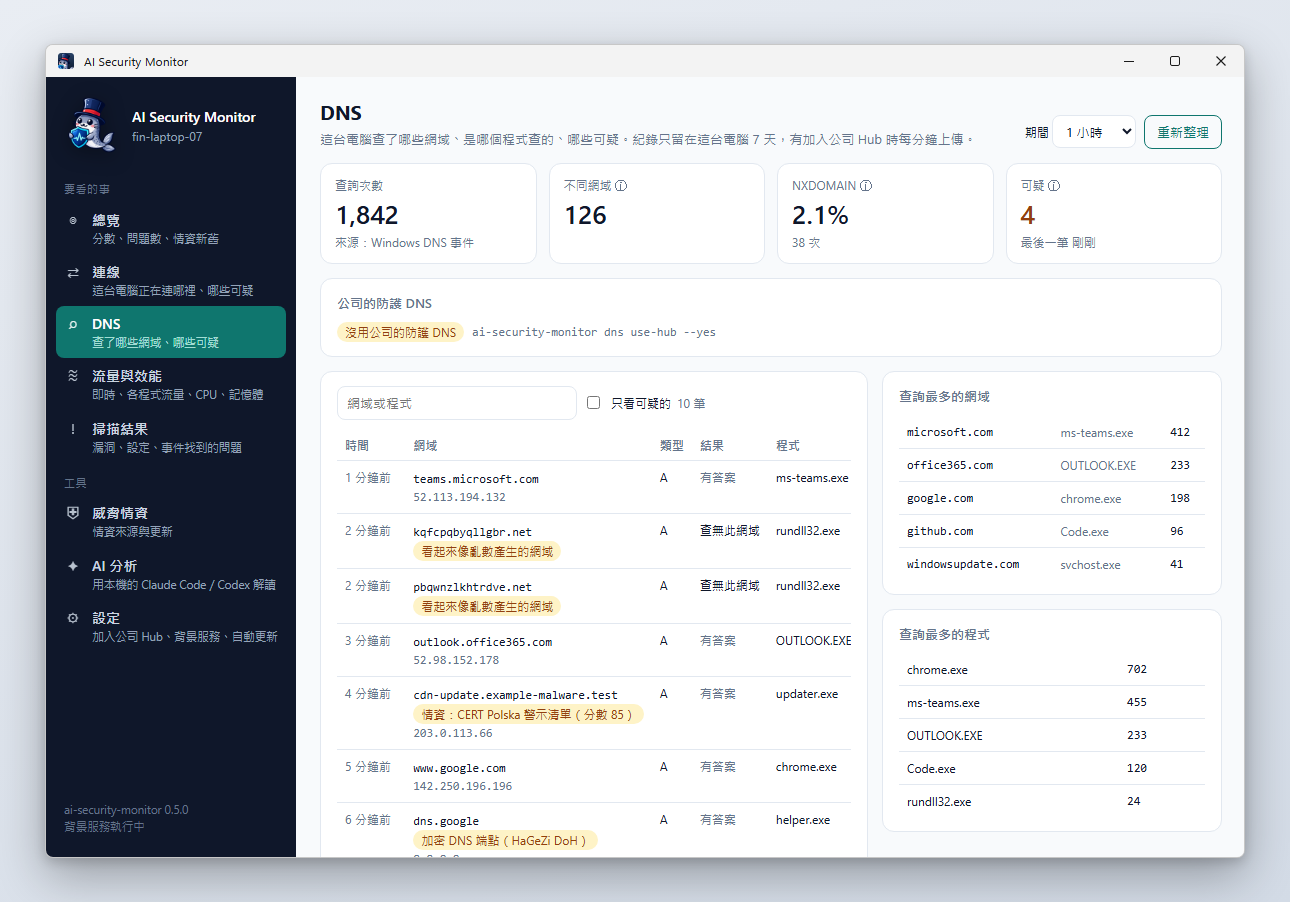
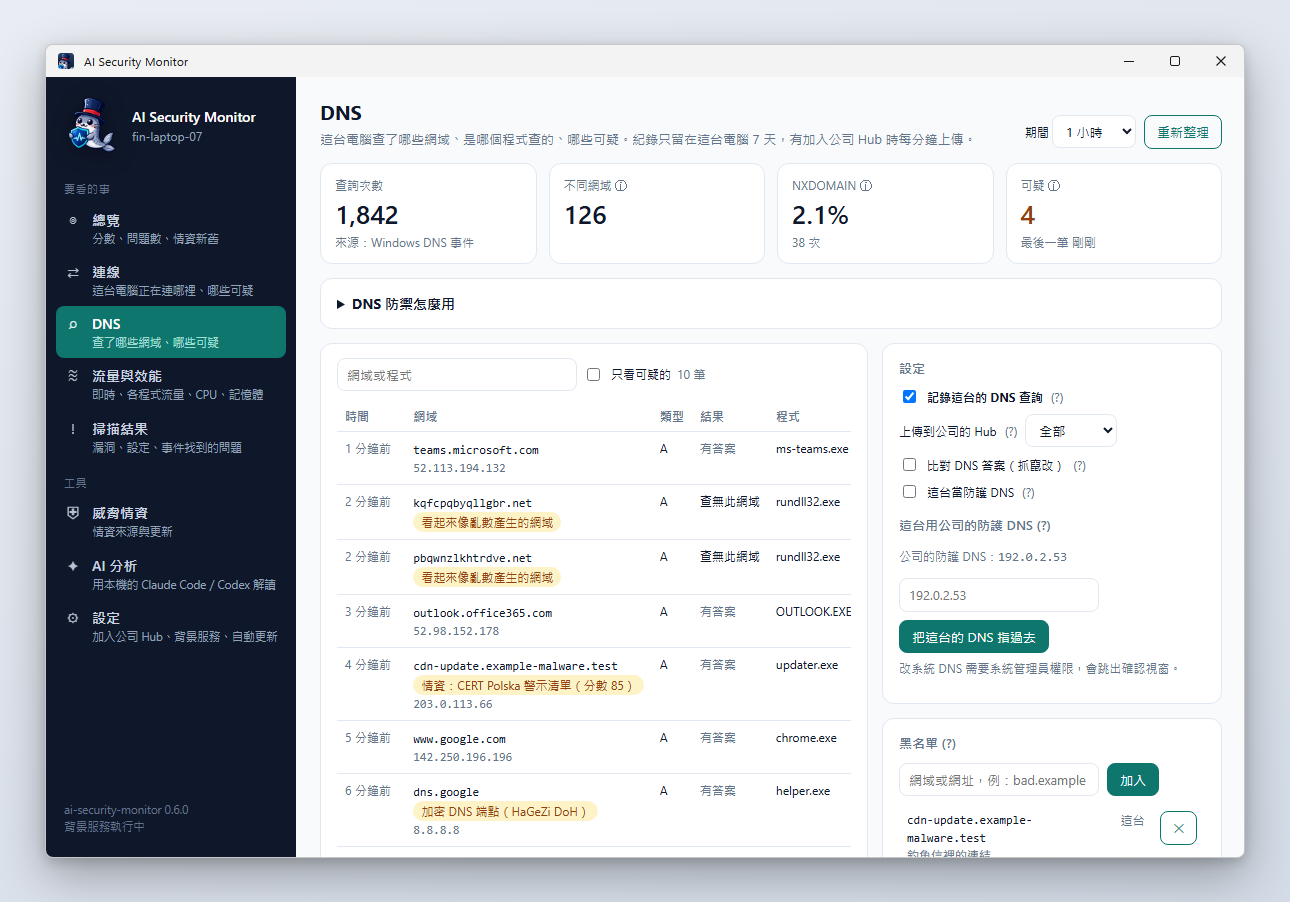
feat(desktop): DNS settings, blocklist and how-to on the DNS page
- Settings card: DNS monitoring on/off, upload level, answer
  verification, run the protective DNS on this computer (+ listen
  address), point this computer at the company protective DNS / restore
  (elevated `dns use-hub` / `dns restore`), plain-language hints
- Blocklist card: add domains or URLs, remove local entries, read-only
  Hub entries; "Block" on every lookup row; blocklist hits as reasons
- "How to use DNS defense" steps; screenshot mock updated

diff --git a/desktop/ui/app.js b/desktop/ui/app.js
@@ -609,9 +609,66 @@ const DNS_SOURCE = {
 const DNS_HINT = {
   nx: 'NXDOMAIN＝查無此網域。偶爾出現很正常；同一個程式短時間大量出現，常是用亂數網域找控制伺服器的惡意程式。',
   domains: '依「可註冊網域」計算：a.b.example.co.uk 算成 example.co.uk，同一家的子網域合成一個。',
-  suspicious: '威脅情資列名的網域、像亂數產生的網域、少見的頂級網域，或加密 DNS 端點（程式自己走加密 DNS 會繞過公司的 DNS）。',
-  protect: '公司的防護 DNS 會擋掉威脅情資列名的網域；用 ai-security-monitor dns use-hub 把這台的 DNS 指過去（防護 DNS 連不上時會自動改回）。',
+  suspicious: '威脅情資列名的網域、黑名單上的網域、像亂數產生的網域、少見的頂級網域，或加密 DNS 端點（程式自己走加密 DNS 會繞過公司的 DNS）。',
+  protect: '公司的防護 DNS 會擋掉威脅情資列名的網域；把這台的 DNS 指過去後，防護 DNS 連續 3 分鐘查不到時背景服務會自動改回原本的 DNS。',
+  enabled: '即時記錄這台查了哪些網域、是哪個程式查的，可疑的會變成掃描結果。關掉就不記錄、也不做 DNS 告警。',
+  upload: 'DNS 紀錄等於上網紀錄。「全部」＝每分鐘把紀錄送到公司的 Hub；「只傳告警」＝只送可疑的；「不傳」＝只留在這台。',
+  verify: '拿 3 個常見網域的答案跟 Cloudflare 的加密 DNS 比對，抓 DNS 被竄改。開了會把這 3 個網域送給 Cloudflare。',
+  server: '讓這台電腦當整個區網的防護 DNS（擋威脅情資列名的網域、上游走加密 DNS）。要背景服務在跑；其他裝置的 DNS 指到這台的區網 IP 才會用到。',
+  blocklist: '黑名單上的網域（含子網域）：這台查到就告警，用防護 DNS 的電腦會直接被擋。Hub 的黑名單是公司統一管理的，在 Hub「設定與金鑰 → 防護 DNS」修改。',
 };
+
+async function dnsDo(fn, okText) {
+  try {
+    const r = await fn();
+    if (okText) toast(okText);
+    return r;
+  } catch (e) {
+    toast(String(e), 6000);
+    return null;
+  }
+}
+
+function dnsSettingsCard(d) {
+  const sel = (v) => (d.upload === v ? 'selected' : '');
+  const usedHub = d.use_hub
+    ? `<p class="small">目前用的是公司的防護 DNS（<span class="mono">${esc(d.use_hub.servers.join('、'))}</span>，從 ${ago(d.use_hub.applied_at)} 起）。</p><button class="btn" id="dns-restore">改回原本的 DNS</button>`
+    : `<p class="small muted">${d.hub_protect?.resolver_ips?.length ? `公司的防護 DNS：<span class="mono">${esc(d.hub_protect.resolver_ips.join('、'))}</span>` : '還沒有公司的防護 DNS 位址（Hub「設定與金鑰 → 防護 DNS」的「裝置要用的 DNS 位址」），也可以自己填。'}</p>
+       <div class="row"><input type="text" id="dns-hub-ip" placeholder="${esc(d.hub_protect?.resolver_ips?.join(',') || '例：192.168.1.5')}" style="width:200px"/><button class="btn primary" id="dns-use-hub">把這台的 DNS 指過去</button></div>`;
+  return `<div class="card">
+    <h2>設定</h2>
+    <label class="row small" title="${esc(DNS_HINT.enabled)}"><input type="checkbox" id="dns-set-enabled" ${d.enabled ? 'checked' : ''}/> <b>記錄這台的 DNS 查詢</b> <span class="muted">(?)</span></label>
+    <label class="small row" style="margin-top:8px" title="${esc(DNS_HINT.upload)}">上傳到公司的 Hub <span class="muted">(?)</span>
+      <select id="dns-set-upload"><option value="all" ${sel('all')}>全部</option><option value="alerts" ${sel('alerts')}>只傳告警</option><option value="off" ${sel('off')}>不傳</option></select></label>
+    <label class="row small" style="margin-top:8px" title="${esc(DNS_HINT.verify)}"><input type="checkbox" id="dns-set-verify" ${d.verify_answers ? 'checked' : ''}/> 比對 DNS 答案（抓竄改） <span class="muted">(?)</span></label>
+    <label class="row small" style="margin-top:8px" title="${esc(DNS_HINT.server)}"><input type="checkbox" id="dns-set-server" ${d.dns_server ? 'checked' : ''}/> 這台當防護 DNS <span class="muted">(?)</span></label>
+    <div class="row small" style="margin-top:4px;${d.dns_server ? '' : 'display:none'}" id="dns-listen-row">監聽位址 <input type="text" id="dns-set-listen" value="${esc(d.dns_server_listen)}" placeholder="空白＝全部網卡的 53 port" style="width:200px"/><button class="btn" id="dns-save-listen">儲存</button></div>
+    <h2 style="margin-top:14px" title="${esc(DNS_HINT.protect)}">這台用公司的防護 DNS <span class="muted">(?)</span></h2>
+    ${usedHub}
+    <p class="small muted" style="margin-top:6px">改系統 DNS 需要系統管理員權限，會跳出確認視窗。</p>
+  </div>`;
+}
+
+function dnsBlocklistCard(d) {
+  const local = d.blocklist?.local ?? [];
+  const hub = d.blocklist?.hub ?? [];
+  return `<div class="card">
+    <h2 title="${esc(DNS_HINT.blocklist)}">黑名單 <span class="muted">(?)</span></h2>
+    <div class="row"><input type="text" id="dns-bl-add" placeholder="網域或網址，例：bad.example" style="width:200px"/><button class="btn primary" id="dns-bl-btn">加入</button></div>
+    ${local.length || hub.length ? `<table style="margin-top:8px"><tbody>
+      ${local.map((e) => `<tr><td class="mono small">${esc(e.domain)}${e.note ? `<div class="small muted">${esc(e.note)}</div>` : ''}</td><td class="small muted nw">這台</td><td class="nw"><button class="btn" data-unblock="${esc(e.domain)}" title="從這台的黑名單移除">✕</button></td></tr>`).join('')}
+      ${hub.map((x) => `<tr><td class="mono small">${esc(x)}</td><td class="small muted nw" title="公司統一管理，在 Hub 修改">Hub</td><td></td></tr>`).join('')}
+    </tbody></table>` : '<p class="small muted" style="margin-top:6px">還沒有。也可以在下面的查詢紀錄按「封鎖」。</p>'}
+  </div>`;
+}
+
+const DNS_HOWTO = `<details class="card"><summary><b>DNS 防禦怎麼用</b></summary>
+  <ol class="small" style="line-height:1.8;margin:8px 0 0 18px;padding:0">
+    <li><b>看紀錄</b>：背景服務在跑時，這頁會列出這台查了哪些網域、哪個程式查的；可疑的會標出理由，也會出現在「掃描結果」。</li>
+    <li><b>加黑名單</b>：在右邊「黑名單」貼上網域，或在查詢紀錄按「封鎖」。這台查到就告警；用防護 DNS 的電腦會直接被擋。全公司一起擋請在 Hub「設定與金鑰 → 防護 DNS」加。</li>
+    <li><b>真的擋下來</b>：公司有防護 DNS 時，在「設定」按「把這台的 DNS 指過去」；防護 DNS 連不上會自動改回。想讓這台當防護 DNS，勾「這台當防護 DNS」。</li>
+    <li><b>隱私</b>：DNS 紀錄等於上網紀錄，「上傳到公司的 Hub」可以改成只傳告警或不傳。</li>
+  </ol></details>`;
 
 async function pageDns() {
   $main.innerHTML = `<h1>DNS</h1><p class="sub">載入中…</p>`;
@@ -625,11 +682,6 @@ async function pageDns() {
   const st = d.status;
   const src = st ? DNS_SOURCE[st.source] : null;
   const nxPct = d.total ? Math.round((d.nxdomain / d.total) * 1000) / 10 : 0;
-  const protect = d.use_hub
-    ? `<span class="chip ok" title="${esc(DNS_HINT.protect)}">已用公司的防護 DNS（${esc(d.use_hub.servers.join('、'))}）</span>`
-    : d.hub_protect?.enabled && d.hub_protect.resolver_ips?.length
-      ? `<span class="chip medium" title="${esc(DNS_HINT.protect)}">沒用公司的防護 DNS</span> <span class="small muted mono">ai-security-monitor dns use-hub --yes</span>`
-      : '';
   $main.innerHTML = `
     <div class="head">
       <div><h1>DNS</h1><p class="sub">這台電腦查了哪些網域、是哪個程式查的、哪些可疑。紀錄只留在這台電腦 7 天${d.upload === 'all' ? '，有加入公司 Hub 時每分鐘上傳' : ''}。</p></div>
@@ -638,7 +690,7 @@ async function pageDns() {
         <button class="btn" id="dns-refresh">重新整理</button>
       </div>
     </div>
-    ${d.enabled ? '' : `<div class="card"><p class="small">DNS 監看已關閉。開啟：<span class="mono">ai-security-monitor config set dns.enabled true</span></p></div>`}
+    ${d.enabled ? '' : `<div class="card"><p class="small">DNS 監看已關閉，在右邊「設定」勾「記錄這台的 DNS 查詢」就會開始記錄。</p></div>`}
     ${d.unreadable ? `<div class="card"><p class="small">背景服務的 DNS 紀錄要以系統管理員身分執行才讀得到。</p></div>` : ''}
     <div class="grid">
       <div class="stat"><div class="label">查詢次數</div><div class="value">${Number(d.total).toLocaleString()}</div><div class="hint">${src ? `<span title="${esc(src[1])}">來源：${esc(src[0])}</span>` : '背景服務還沒有紀錄'}</div></div>
@@ -646,7 +698,7 @@ async function pageDns() {
       <div class="stat"><div class="label" title="${esc(DNS_HINT.nx)}">NXDOMAIN ⓘ</div><div class="value">${nxPct}%</div><div class="hint">${Number(d.nxdomain).toLocaleString()} 次</div></div>
       <div class="stat"><div class="label" title="${esc(DNS_HINT.suspicious)}">可疑 ⓘ</div><div class="value" style="${d.suspicious ? 'color:var(--warn)' : ''}">${d.suspicious}</div><div class="hint">${st?.last_event_at ? `最後一筆 ${ago(st.last_event_at)}` : ''}</div></div>
     </div>
-    ${protect ? `<div class="card"><h2>公司的防護 DNS</h2><div class="row">${protect}</div></div>` : ''}
+    ${DNS_HOWTO}
     <div class="split">
       <div>
         <div class="card">
@@ -655,7 +707,7 @@ async function pageDns() {
             <label class="small row" title="${esc(DNS_HINT.suspicious)}"><input type="checkbox" id="dns-bad" ${dnsState.suspicious ? 'checked' : ''}/> 只看可疑的</label>
             <span class="muted small">${d.records.length >= 500 ? '只顯示最近 500 筆' : `${d.records.length} 筆`}</span>
           </div>
-          ${d.records.length ? `<div style="overflow-x:auto"><table><thead><tr><th class="nw">時間</th><th>網域</th><th class="nw">類型</th><th class="nw">結果</th><th>程式</th><th class="nw">次數</th></tr></thead><tbody>${d.records
+          ${d.records.length ? `<div style="overflow-x:auto"><table><thead><tr><th class="nw">時間</th><th>網域</th><th class="nw">類型</th><th class="nw">結果</th><th>程式</th><th class="nw">次數</th><th></th></tr></thead><tbody>${d.records
             .map((r) => `<tr>
               <td class="small muted nw">${ago(r.ts)}</td>
               <td><span class="mono small">${esc(r.name)}</span>${r.reasons.map((x) => ` <span class="chip medium">${esc(x)}</span>`).join('')}${r.answers?.length ? `<div class="small muted mono">${esc(r.answers.slice(0, 3).join(', '))}${r.answers.length > 3 ? '…' : ''}</div>` : ''}</td>
@@ -663,23 +715,68 @@ async function pageDns() {
               <td class="small nw">${r.rcode === 'NOERROR' ? '<span class="muted">有答案</span>' : r.rcode === 'NXDOMAIN' ? `<span title="${esc(DNS_HINT.nx)}">查無此網域</span>` : esc(r.rcode)}</td>
               <td class="small">${esc(r.process ?? '—')}</td>
               <td class="small mono nw">${r.count}</td>
+              <td class="nw"><button class="btn" data-block="${esc(r.name)}" title="把這個網域（含子網域）加進這台的黑名單">封鎖</button></td>
             </tr>`).join('')}</tbody></table></div>` : `<p class="muted small">這段期間沒有紀錄${d.enabled ? '（背景服務要在跑才會記錄；Windows 以系統管理員執行才看得到程式）' : ''}。</p>`}
         </div>
       </div>
       <div>
+        ${dnsSettingsCard(d)}
+        ${dnsBlocklistCard(d)}
         <div class="card"><h2>查詢最多的網域</h2>${d.top_domains.length ? `<table><tbody>${d.top_domains.map((t) => `<tr><td class="mono small">${esc(t.domain)}</td><td class="small muted">${esc(t.process || '')}</td><td class="small mono">${Number(t.count).toLocaleString()}</td></tr>`).join('')}</tbody></table>` : '<p class="muted small">沒有</p>'}</div>
         <div class="card"><h2>查詢最多的程式</h2>${d.top_processes.length ? `<table><tbody>${d.top_processes.map((t) => `<tr><td class="small">${esc(t.process)}</td><td class="small mono">${Number(t.count).toLocaleString()}</td></tr>`).join('')}</tbody></table>` : '<p class="muted small">看不到程式（Windows 以系統管理員執行背景服務才看得到）</p>'}</div>
       </div>
     </div>`;
-  document.getElementById('dns-refresh').onclick = () => pageDns();
-  document.getElementById('dns-min').onchange = (e) => { dnsState.minutes = Number(e.target.value); pageDns(); };
-  document.getElementById('dns-bad').onchange = (e) => { dnsState.suspicious = e.target.checked; pageDns(); };
+  const $ = (id) => document.getElementById(id);
+  $('dns-refresh').onclick = () => pageDns();
+  $('dns-min').onchange = (e) => { dnsState.minutes = Number(e.target.value); pageDns(); };
+  $('dns-bad').onchange = (e) => { dnsState.suspicious = e.target.checked; pageDns(); };
   let t = null;
-  document.getElementById('dns-q').oninput = (e) => {
+  $('dns-q').oninput = (e) => {
     dnsState.q = e.target.value;
     clearTimeout(t);
-    t = setTimeout(() => pageDns().then(() => { const el = document.getElementById('dns-q'); el.focus(); el.setSelectionRange(el.value.length, el.value.length); }), 400);
+    t = setTimeout(() => pageDns().then(() => { const el = $('dns-q'); el.focus(); el.setSelectionRange(el.value.length, el.value.length); }), 400);
   };
+  // 設定
+  const set = (key, value, ok) => dnsDo(() => invoke('dns_set', { key, value: String(value) }), ok);
+  $('dns-set-enabled').onchange = (e) => set('dns.enabled', e.target.checked, e.target.checked ? '已開始記錄 DNS 查詢（背景服務下一輪生效）' : '已停止記錄 DNS 查詢');
+  $('dns-set-upload').onchange = (e) => set('dns.upload', e.target.value, '已儲存');
+  $('dns-set-verify').onchange = (e) => set('dns.verify_answers', e.target.checked, '已儲存');
+  $('dns-set-server').onchange = async (e) => {
+    await set('dns.server.enabled', e.target.checked, e.target.checked ? '背景服務 1 分鐘內會帶起防護 DNS' : '背景服務 1 分鐘內會停掉防護 DNS');
+    $('dns-listen-row').style.display = e.target.checked ? '' : 'none';
+  };
+  $('dns-save-listen').onclick = () => set('dns.server.listen', $('dns-set-listen').value, '已儲存監聽位址');
+  if ($('dns-use-hub')) {
+    $('dns-use-hub').onclick = async () => {
+      const ip = $('dns-hub-ip').value.trim();
+      if (!window.confirm(`把這台的系統 DNS 改成${ip ? ` ${ip}` : '公司的防護 DNS'}？\n\n原本的設定會存起來，可以按「改回原本的 DNS」；防護 DNS 連不上時背景服務也會自動改回。`)) return;
+      const r = await dnsDo(() => invoke('dns_use_hub', { server: ip || null }));
+      if (r) { toast((r.lines || []).join('\n') || '已改好', 6000); pageDns(); }
+    };
+  }
+  if ($('dns-restore')) {
+    $('dns-restore').onclick = async () => {
+      if (!window.confirm('把這台的 DNS 改回原本的設定？')) return;
+      const r = await dnsDo(() => invoke('dns_restore'));
+      if (r) { toast('已改回原本的 DNS'); pageDns(); }
+    };
+  }
+  // 黑名單
+  const block = async (domains) => {
+    const r = await dnsDo(() => invoke('dns_block', { domains, note: null }));
+    if (!r) return;
+    if (r.added.length) toast(`已加入黑名單：${r.added.join('、')}（含子網域）`);
+    else if (r.invalid.length) toast(`不是合法的網域：${r.invalid.join('、')}`, 5000);
+    else toast('已經在黑名單上了');
+    pageDns();
+  };
+  $('dns-bl-btn').onclick = () => { const v = $('dns-bl-add').value.trim(); if (v) block(v.split(/[\s,]+/).filter(Boolean)); };
+  $('dns-bl-add').onkeydown = (e) => { if (e.key === 'Enter') $('dns-bl-btn').click(); };
+  $main.querySelectorAll('[data-block]').forEach((b) => (b.onclick = () => block([b.dataset.block])));
+  $main.querySelectorAll('[data-unblock]').forEach((b) => (b.onclick = async () => {
+    const r = await dnsDo(() => invoke('dns_unblock', { domains: [b.dataset.unblock] }));
+    if (r) { toast(`已移除：${b.dataset.unblock}`); pageDns(); }
+  }));
 }
 
 // ---------------- AI 分析 ----------------

diff --git a/desktop/src-tauri/src/dns.rs b/desktop/src-tauri/src/dns.rs
@@ -3,7 +3,7 @@
 
 use std::collections::HashMap;
 
-use asa_lib::dns::{heuristics, store, usehub};
+use asa_lib::dns::{blocklist, heuristics, store, usehub};
 use chrono::Utc;
 use serde_json::{json, Value};
 use tauri::State;
@@ -11,8 +11,11 @@ use tauri::State;
 use crate::{AppState, CmdResult};
 
 /// 一筆紀錄的可疑理由（情資分數 ≥ 60、像亂數產生、少見頂級網域）。
-fn reasons(db: Option<&asa_lib::intel::IntelDb>, name: &str) -> Vec<String> {
+fn reasons(db: Option<&asa_lib::intel::IntelDb>, bl: &blocklist::Matcher, name: &str) -> Vec<String> {
     let mut out = Vec::new();
+    if let Some((entry, src)) = bl.find(name) {
+        out.push(format!("黑名單：{entry}（{}）", src.label()));
+    }
     if let Some(db) = db {
         let hits = db.match_domain(name);
         let score = asa_lib::intel::domain_score(&hits, heuristics::is_popular(name));
@@ -48,6 +51,7 @@ pub async fn dns_recent(
     let intel = state.intel().await;
     let needle = q.unwrap_or_default().trim().to_ascii_lowercase();
     let only_bad = suspicious.unwrap_or(false);
+    let bl = blocklist::Matcher::load(&dir);
 
     let mut total = 0u64;
     let mut nx = 0u64;
@@ -70,7 +74,7 @@ pub async fn dns_recent(
         if let Some(p) = &r.process {
             *procs.entry(p.clone()).or_default() += n;
         }
-        let why = reasons(intel.as_deref(), &r.name);
+        let why = reasons(intel.as_deref(), &bl, &r.name);
         if !why.is_empty() {
             bad += 1;
         }
@@ -121,5 +125,98 @@ pub async fn dns_recent(
         "use_hub": usehub::UseHubState::load(&dir),
         "hub_protect": usehub::HubProtect::load(&dir),
         "dns_server": cfg.as_ref().map(|c| c.dns.server.enabled).unwrap_or(false),
+        "dns_server_listen": cfg.as_ref().map(|c| c.dns.server.listen.join(", ")).unwrap_or_default(),
+        "verify_answers": cfg.as_ref().map(|c| c.dns.verify_answers).unwrap_or(false),
+        "blocklist": {
+            "local": blocklist::Blocklist::load(&dir).entries,
+            "hub": usehub::HubProtect::load(&dir).map(|h| h.block).unwrap_or_default(),
+        },
     }))
+}
+
+/// DNS 設定頁可以改的鍵（其他鍵不收）。
+const SETTABLE: [&str; 5] = [
+    "dns.enabled",
+    "dns.upload",
+    "dns.verify_answers",
+    "dns.server.enabled",
+    "dns.server.listen",
+];
+
+#[tauri::command]
+pub async fn dns_set(state: State<'_, AppState>, key: String, value: String) -> CmdResult<Value> {
+    if !SETTABLE.contains(&key.as_str()) {
+        return Err(format!("不能從這裡改：{key}"));
+    }
+    let dir = &state.config_dir;
+    let mut cfg = asa_lib::config::load_or_init(dir).map_err(crate::err)?;
+    asa_lib::config::set_value(&mut cfg, &key, &value).map_err(crate::err)?;
+    asa_lib::config::save(dir, &cfg).map_err(crate::err)?;
+    Ok(json!({ "ok": true }))
+}
+
+#[tauri::command]
+pub async fn dns_block(state: State<'_, AppState>, domains: Vec<String>, note: Option<String>) -> CmdResult<Value> {
+    let dir = &state.config_dir;
+    let mut b = blocklist::Blocklist::load(dir);
+    let (added, invalid) = b.add(&domains, note.as_deref().unwrap_or(""));
+    if !added.is_empty() {
+        b.save(dir).map_err(crate::err)?;
+    }
+    Ok(json!({ "added": added, "invalid": invalid }))
+}
+
+#[tauri::command]
+pub async fn dns_unblock(state: State<'_, AppState>, domains: Vec<String>) -> CmdResult<Value> {
+    let dir = &state.config_dir;
+    let mut b = blocklist::Blocklist::load(dir);
+    let removed = b.remove(&domains);
+    if !removed.is_empty() {
+        b.save(dir).map_err(crate::err)?;
+    }
+    Ok(json!({ "removed": removed }))
+}
+
+/// 以系統管理員執行命令列版的 `dns use-hub`／`dns restore`（會跳出 UAC／密碼視窗）。
+async fn run_dns_elevated(dir: &std::path::Path, args: &[&str]) -> CmdResult<Value> {
+    let st = asa_lib::cli::service_cmd::user_service_status(dir)
+        .await
+        .map_err(crate::err)?;
+    let exe = st["exe"].as_str().map(std::path::PathBuf::from).ok_or_else(|| {
+        "找不到命令列版 ai-security-monitor（請先在「設定」開啟背景自動回報，或安裝命令列版）".to_string()
+    })?;
+    let mut argv: Vec<String> = vec![
+        exe.display().to_string(),
+        "--config-dir".into(),
+        dir.display().to_string(),
+    ];
+    argv.extend(args.iter().map(|s| s.to_string()));
+    let r = asa_lib::elevate::run_elevated(&exe, &argv, dir)
+        .await
+        .map_err(crate::err)?;
+    if !r.ok {
+        let msg = r
+            .error
+            .as_ref()
+            .and_then(|e| e["message"].as_str().map(|s| s.to_string()))
+            .unwrap_or_else(|| r.lines.join("\n"));
+        return Err(msg);
+    }
+    Ok(json!({ "lines": r.lines }))
+}
+
+#[tauri::command]
+pub async fn dns_use_hub(state: State<'_, AppState>, server: Option<String>) -> CmdResult<Value> {
+    let server = server.map(|s| s.trim().to_string()).filter(|s| !s.is_empty());
+    let mut args = vec!["dns", "use-hub", "--yes"];
+    if let Some(s) = &server {
+        args.push("--server");
+        args.push(s);
+    }
+    run_dns_elevated(&state.config_dir, &args).await
+}
+
+#[tauri::command]
+pub async fn dns_restore(state: State<'_, AppState>) -> CmdResult<Value> {
+    run_dns_elevated(&state.config_dir, &["dns", "restore", "--yes"]).await
 }

diff --git a/desktop/src-tauri/src/lib.rs b/desktop/src-tauri/src/lib.rs
@@ -670,6 +670,11 @@ pub fn run(start_in_tray: bool) {
             set_desktop_autostart,
             usage::metrics_now,
             dns::dns_recent,
+            dns::dns_set,
+            dns::dns_block,
+            dns::dns_unblock,
+            dns::dns_use_hub,
+            dns::dns_restore,
             usage::metrics_history,
             live::traffic_live,
             usage::set_performance,

diff --git a/CHANGELOG.md b/CHANGELOG.md
@@ -2,6 +2,7 @@
 
 ## 未發佈
 
+- **桌面版 DNS 頁：設定、黑名單、怎麼用**：右邊多了「設定」：記錄這台的 DNS 查詢、上傳到公司 Hub 的程度（全部／只傳告警／不傳）、比對 DNS 答案、這台當防護 DNS（含監聽位址）、「把這台的 DNS 指到公司的防護 DNS／改回原本的 DNS」（以系統管理員執行命令列版的 `dns use-hub`／`dns restore`，會跳出確認）；每個選項都有白話提示。「黑名單」卡片：貼網域或網址加入（含子網域）、移除這台的條目、看到 Hub 的黑名單（唯讀）；每筆查詢紀錄都有「封鎖」。頁面上方「DNS 防禦怎麼用」四步驟說明；可疑理由也會標出黑名單命中。
 - **資安報告（依選定區間）**：總覽右上角「產生資安報告」（最近 7／30／90 天或自訂期間），新頁 `/report`：選開始與結束日期（含當天，最長 366 天）、可限定一台主機；內容有自動整理的重點（新增／處理／期末待處理的問題、平均安全分數的變化、情資命中、危險與可疑 IP、DNS 告警與防護 DNS 擋下的次數、資安事件、自動回應、分數最低的主機）、問題依嚴重度的新增／已處理／期末待處理表、最常出現的問題、新出現的嚴重與高風險問題、安全分數期初→期末與每日走勢、分數最低的主機、情資來源命中與危險 IP（含 IP 備註）、DNS 被擋最多的網域、資安事件、封鎖與遠端動作、MITRE ATT&CK 技術。可以「列印／存成 PDF」（列印時自動換成淺色、隱藏側欄）或「下載 Markdown」；API `GET /api/v1/report?from=&to=[&agent_id=][&format=md|json][&lang=]`（管理員或 read 權杖）。
 - **情資可以逐一手動更新**：Hub「威脅情資」每個 Hub 會下載的來源（例 CISA KEV、各黑名單）在「Hub 最後同步」欄多了「立即更新」，每一區標題旁有「這一區全部更新」；按下就不管更新間隔馬上向廠商下載，並叫所有主機下次心跳改用新的。線上 API 類（EPSS、NVD、OSV、AbuseIPDB 等）原本只寫「不鏡像」，改成說明「掃描時即時查詢／查詢時即時取得」：沒有清單可下載，本來就是最新的。API：`POST /api/v1/admin/feeds/sync` 可帶 `only: [來源 id]`。
 - **Windows 一鍵開啟各程式的網路流量**：桌面版「流量與效能」量不到各程式流量時，多了「開啟各程式流量」按鈕（跳一次 Windows UAC），背景服務改成「登入時以系統管理員權限啟動」的排程工作（仍用自己的設定目錄、取代 HKCU Run，之後登入不再詢問），就會開始記錄各程式的流量並回報 Hub。命令列：`ai-security-monitor service install --admin-at-logon --yes`（關閉：`service uninstall --admin-at-logon --yes`，換回一般的登入啟動）；`service status` 會顯示是否開啟；更新後的重新啟動也會用排程工作。帳號要是系統管理員群組成員。設定頁的「背景自動回報」也會顯示這個狀態。
